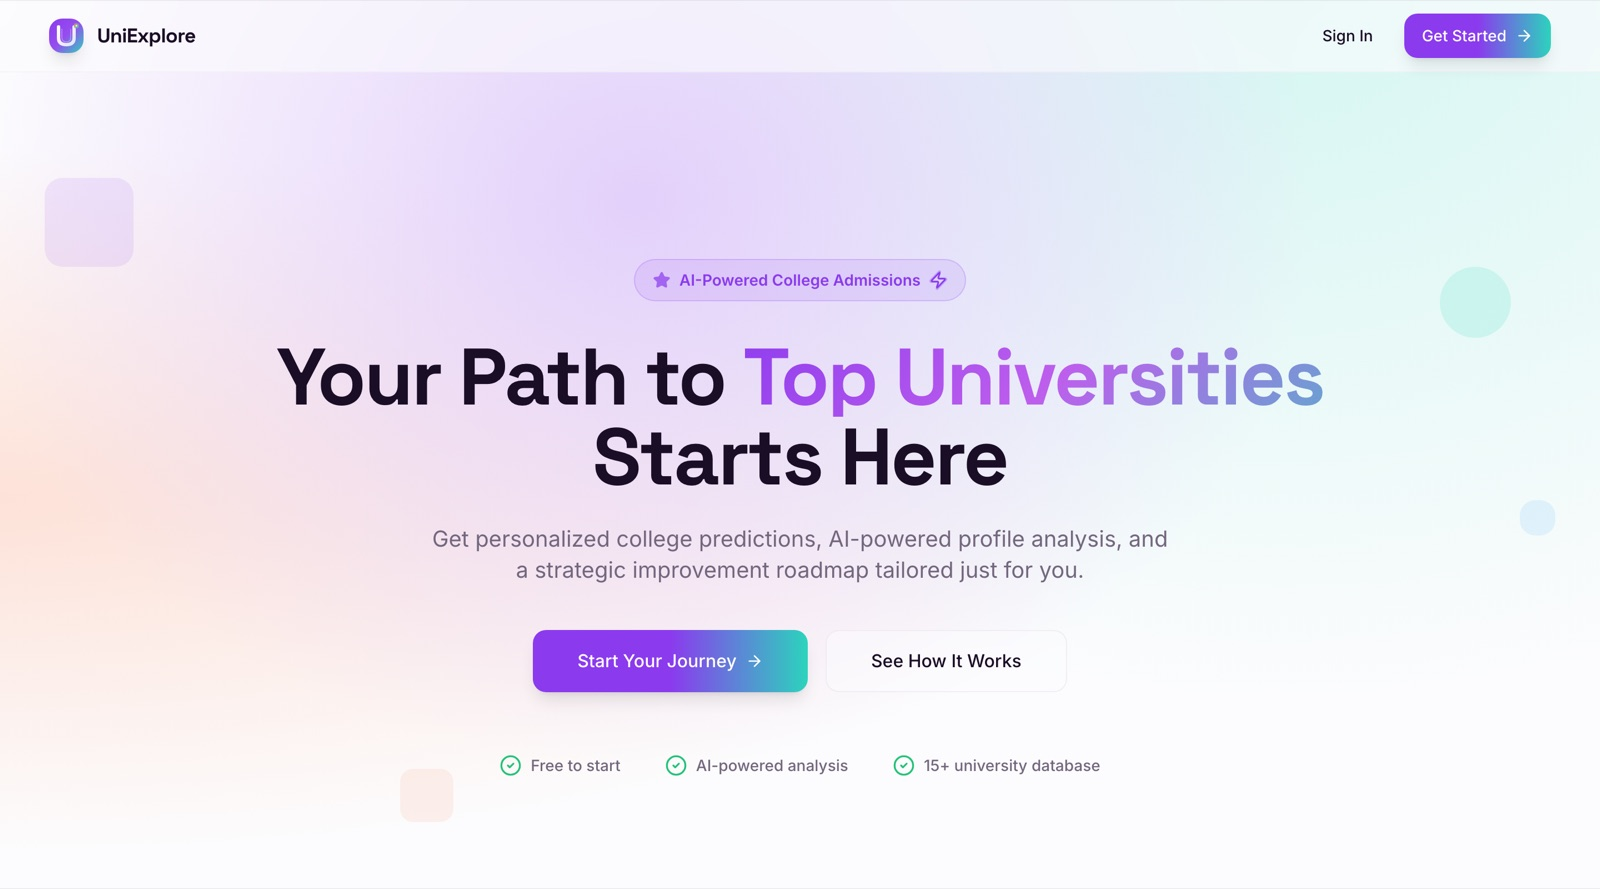
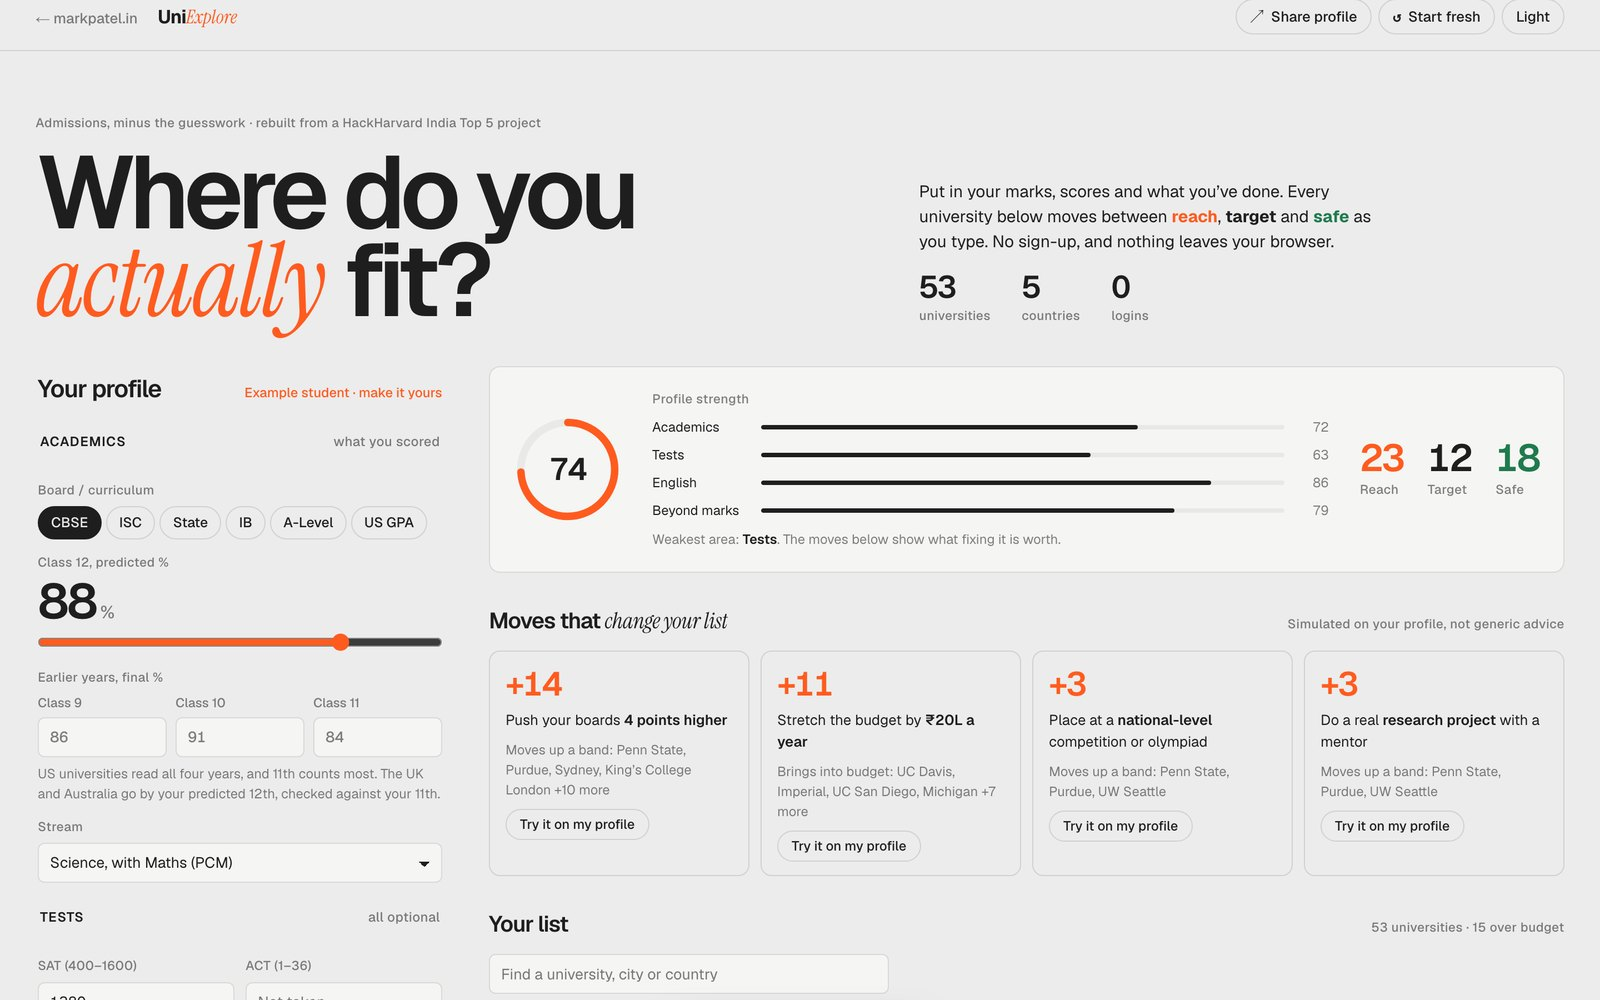
Portfolio: UniExplore plate shows the rebuilt app

diff --git a/index.html b/index.html
@@ -392,7 +392,7 @@
 
       <div class="stage">
         <article class="entry is-current" id="e1">
-          <figure class="plate"><img src="uniexplore-landing.jpg" alt="UniExplore landing page: Your path to top universities starts here" width="1600" height="889" decoding="async"></figure>
+          <figure class="plate"><img src="uniexplore-landing.jpg?v=3" alt="UniExplore: where do you actually fit? Live profile strength, reach, target and safe counts, and moves that change your list" width="1600" height="1000" decoding="async"></figure>
           <div class="entry-meta" data-live="/uniexplore/"><span class="no">01</span><h3 data-k="name">UniExplore</h3><p data-k="desc">An AI admissions advisor that scores a student's profile and sorts universities into reach, target and safe.</p><dl class="fields"><div><dt>Type</dt><dd data-k="type">Hackathon</dd></div><div><dt>Role</dt><dd data-k="role">Built most of it, team project</dd></div><div><dt>Where</dt><dd data-k="where">HackHarvard India, Top 5</dd></div></dl><button class="more-btn" type="button" aria-expanded="false">Details <span>+</span></button><div class="entry-more"><div class="more-in"><ul class="entry-points" data-k="points"><li>Built most of the product during the hackathon; my teammates made the pitch deck</li><li>Scores a student's profile across academics and activities</li><li>Sorts universities into reach, target and safe</li><li>AI insights plus an advisor chat for guidance</li><li>Selected in the Top 5 at HackHarvard India, January 2026</li></ul><a class="live-cta" href="/uniexplore/" data-portal>Try it live, no login &#8599;</a></div></div></div>
         </article>
 
